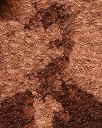
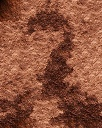
tex

diff --git a/code/Texture_Transfer.py b/code/Texture_Transfer.py
@@ -149,17 +149,17 @@ def Texture_Trasfer(source_img, target_img, block_size, tolerance, alpha, overla
 	return final_img
 
 
-target_img = cv.imread('/home/prathmesh/Desktop/CS663/image-quilting-texture-synthesis/data/lincoln.jpg')
-source_img = cv.imread('/home/prathmesh/Desktop/CS663/image-quilting-texture-synthesis/data/t4.jpg')
+target_img = cv.imread('/home/prathmesh/Desktop/CS663/image-quilting-texture-synthesis/data/van_gogh.jpeg')
+source_img = cv.imread('/home/prathmesh/Desktop/CS663/image-quilting-texture-synthesis/data/landscape.jpeg')
 alpha = 0.1
-tolerance = 0.1
+tolerance = 0.999
 block_size = [30,30]
-overlap = 15
+overlap = 10
 
-for k in range(6):
+for k in range(4):
 	f = Texture_Trasfer(source_img, target_img, block_size, tolerance, alpha, overlap)
 	source_img = f
-	alpha = 0.8 * (k-1)/5 + 0.1
+	alpha = 0.8 * (k)/3 + 0.1
 	block_size = [block_size[0] - 3, block_size[1] - 3]
 
 cv.imwrite('f.jpg', f)
